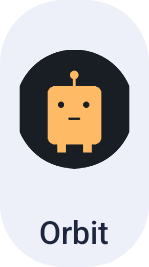
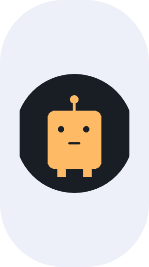
docs: record image-only focus widget delivery

diff --git a/docs/demo/home-widgets/index.html b/docs/demo/home-widgets/index.html
@@ -1,1 +1,1 @@
-<!doctype html><html lang="en"><meta charset="utf-8"><meta name="viewport" content="width=device-width, initial-scale=1"><title>Phone widgets — native Android</title><style>body{margin:0;font:14px/1.5 var(--font-sans,system-ui);color:var(--foreground,#c1cbe8)}p{margin:10px 0;color:var(--muted-foreground,#98a4c3)}.controls{display:flex;flex-wrap:wrap;gap:8px;margin:12px 0}label{display:flex;align-items:center;gap:8px}select{background:var(--secondary,#242840);color:inherit;border:1px solid var(--border,#626a85);border-radius:9px;padding:9px;font:inherit;min-height:44px}.stage{border-radius:var(--radius,16px);padding:24px;background:var(--secondary,#161d34);display:flex;justify-content:center;align-items:center;min-height:120px}.stage img{display:block;max-width:100%;height:auto;width:var(--width,300px)}small{display:block;margin-top:10px;color:var(--muted-foreground,#98a4c3)}strong{font-size:16px}button:focus-visible,select:focus-visible{outline:3px solid var(--ring,#61c7ff);outline-offset:2px}</style><strong>Phone shortcuts, rendered by Android</strong><p>Clear portraits. Names underneath. Tap a bot to open its Talk/Chat screen.</p><div class="controls"><label>Rows × columns<select id="layout"></select></label><label>Appearance<select id="theme"><option value="system">Follow system · OS dark</option><option value="light">Light</option><option value="dark">Dark</option><option value="moonlight" selected>Electronic Moonlight</option></select></label></div><div class="stage"><img id="image" alt=""></div><small>Actual native host exports with original public fixture robots. Each widget has separate bot choices and order. Five-column layouts require a suitable launcher grid.</small><small>Physical One UI placement and two-wallpaper color changes are still pending.</small><script>const layouts=[["focus", "1\u00d71", "Focus"], ["four", "2\u00d72", "Four bots"], ["eight", "2\u00d74", "Eight bots"], ["strip_four", "1\u00d74", "Four-bot strip"], ["sixteen", "4\u00d74", "Sixteen bots"], ["strip_five", "1\u00d75", "Five-bot strip"], ["ten", "2\u00d75", "Ten bots"]],images={"strip_five-light": "strip_five-light.png", "sixteen-system": "sixteen-system.png", "ten-system": "ten-system.png", "sixteen-light": "sixteen-light.png", "focus-moonlight": "focus-moonlight.png", "strip_four-light": "strip_four-light.png", "strip_five-moonlight": "strip_five-moonlight.png", "eight-light": "eight-light.png", "strip_four-dark": "strip_four-dark.png", "four-moonlight": "four-moonlight.png", "focus-system": "focus-system.png", "focus-light": "focus-light.png", "eight-dark": "eight-dark.png", "ten-dark": "ten-dark.png", "strip_five-system": "strip_five-system.png", "four-dark": "four-dark.png", "ten-moonlight": "ten-moonlight.png", "eight-moonlight": "eight-moonlight.png", "sixteen-moonlight": "sixteen-moonlight.png", "four-system": "four-system.png", "sixteen-dark": "sixteen-dark.png", "strip_four-system": "strip_four-system.png", "eight-system": "eight-system.png", "strip_five-dark": "strip_five-dark.png", "four-light": "four-light.png", "focus-dark": "focus-dark.png", "strip_four-moonlight": "strip_four-moonlight.png", "ten-light": "ten-light.png"};const select=document.querySelector('#layout');layouts.forEach(([key,size,name])=>{let o=new Option(size+' · '+name,key);select.add(o)});select.value='strip_four';const cols={focus:1,four:2,eight:4,strip_four:4,sixteen:4,strip_five:5,ten:5};function show(){const key=select.value;const image=document.querySelector('#image');image.src=images[key+'-'+document.querySelector('#theme').value];image.alt=layouts.find(x=>x[0]===key)[1]+' native phone widget';image.style.setProperty('--width',Math.min(430,cols[key]*78)+'px')};select.onchange=show;document.querySelector('#theme').onchange=show;show();console.log('native gallery ready',layouts.length,Object.keys(images).length);</script></html>
+<!doctype html><html lang="en"><meta charset="utf-8"><meta name="viewport" content="width=device-width, initial-scale=1"><title>Phone widgets — native Android</title><style>body{margin:0;font:14px/1.5 var(--font-sans,system-ui);color:var(--foreground,#c1cbe8)}p{margin:10px 0;color:var(--muted-foreground,#98a4c3)}.controls{display:flex;flex-wrap:wrap;gap:8px;margin:12px 0}label{display:flex;align-items:center;gap:8px}select{background:var(--secondary,#242840);color:inherit;border:1px solid var(--border,#626a85);border-radius:9px;padding:9px;font:inherit;min-height:44px}.stage{border-radius:var(--radius,16px);padding:24px;background:var(--secondary,#161d34);display:flex;justify-content:center;align-items:center;min-height:120px}.stage img{display:block;max-width:100%;height:auto;width:var(--width,300px)}small{display:block;margin-top:10px;color:var(--muted-foreground,#98a4c3)}strong{font-size:16px}button:focus-visible,select:focus-visible{outline:3px solid var(--ring,#61c7ff);outline-offset:2px}</style><strong>Phone shortcuts, rendered by Android</strong><p>The 1×1 shortcut shows just the portrait. Larger layouts keep names underneath. Tap a bot to open Talk/Chat.</p><div class="controls"><label>Rows × columns<select id="layout"></select></label><label>Appearance<select id="theme"><option value="system">Follow system · OS dark</option><option value="light">Light</option><option value="dark">Dark</option><option value="moonlight" selected>Electronic Moonlight</option></select></label></div><div class="stage"><img id="image" alt=""></div><small>Actual native host exports with original public fixture robots. Each widget has separate bot choices and order. Five-column layouts require a suitable launcher grid.</small><small>Physical One UI placement and two-wallpaper color changes are still pending.</small><script>const layouts=[["focus", "1\u00d71", "Focus"], ["four", "2\u00d72", "Four bots"], ["eight", "2\u00d74", "Eight bots"], ["strip_four", "1\u00d74", "Four-bot strip"], ["sixteen", "4\u00d74", "Sixteen bots"], ["strip_five", "1\u00d75", "Five-bot strip"], ["ten", "2\u00d75", "Ten bots"]],images={"strip_five-light": "strip_five-light.png", "sixteen-system": "sixteen-system.png", "ten-system": "ten-system.png", "sixteen-light": "sixteen-light.png", "focus-moonlight": "focus-moonlight.png", "strip_four-light": "strip_four-light.png", "strip_five-moonlight": "strip_five-moonlight.png", "eight-light": "eight-light.png", "strip_four-dark": "strip_four-dark.png", "four-moonlight": "four-moonlight.png", "focus-system": "focus-system.png", "focus-light": "focus-light.png", "eight-dark": "eight-dark.png", "ten-dark": "ten-dark.png", "strip_five-system": "strip_five-system.png", "four-dark": "four-dark.png", "ten-moonlight": "ten-moonlight.png", "eight-moonlight": "eight-moonlight.png", "sixteen-moonlight": "sixteen-moonlight.png", "four-system": "four-system.png", "sixteen-dark": "sixteen-dark.png", "strip_four-system": "strip_four-system.png", "eight-system": "eight-system.png", "strip_five-dark": "strip_five-dark.png", "four-light": "four-light.png", "focus-dark": "focus-dark.png", "strip_four-moonlight": "strip_four-moonlight.png", "ten-light": "ten-light.png"};const select=document.querySelector('#layout');layouts.forEach(([key,size,name])=>{let o=new Option(size+' · '+name,key);select.add(o)});select.value='strip_four';const cols={focus:1,four:2,eight:4,strip_four:4,sixteen:4,strip_five:5,ten:5};function show(){const key=select.value;const image=document.querySelector('#image');image.src=images[key+'-'+document.querySelector('#theme').value];image.alt=layouts.find(x=>x[0]===key)[1]+' native phone widget';image.style.setProperty('--width',Math.min(430,cols[key]*78)+'px')};select.onchange=show;document.querySelector('#theme').onchange=show;show();console.log('native gallery ready',layouts.length,Object.keys(images).length);</script></html>

diff --git a/SESSION_STATUS.md b/SESSION_STATUS.md
@@ -1,5 +1,15 @@
-<!-- Current continuation: Nova widget sizing fix b264796 is installed; the existing 1x1 portrait and Talk/Chat launch are verified. All 104 baseline files /18 identities /55 art files preserved. Watch f35bf59 unchanged. -->
+<!-- Current continuation: 1x1 portrait-only refinement acfe414 installed; 104 baseline files /18 identities /55 artwork files preserved. Native checks pass; phone was locked during final visual check. -->
 # Session status
+
+The owner requested an image-only 1×1 shortcut. Build `acfe414` hides the caption when the
+configured Focus portrait is available, giving that space to the image. The full name/source
+remain on the accessible cell; missing-art/recovery labels and larger-widget captions remain.
+Strict checks/all four APKs pass 133 JVM tests /38 reports and twelve affected native methods.
+Four synthetic Focus gallery exports are refreshed with individual source/APK provenance.
+The matching-signer preserving update is installed on the phone: all 104 baseline files,
+18 identities, 55 art files, timeout and seven providers are unchanged. Its configuration
+is retained. The phone was locked during the final visual check, so this image-only delivery's
+physical appearance is not claimed as observed. Private receipts: `.local/widget-image-only/`.
 
 The configured Nova 1×1 widget recovery bug is fixed and physically verified at `b264796`.
 The renderer supplies supported-minimum and tiny-recovery variants alongside advertised

diff --git a/docs/demo/home-widgets/README.md b/docs/demo/home-widgets/README.md
@@ -2,7 +2,7 @@
 
 [Interactive native gallery](index.html) — seven layouts × four appearances, using
 original public fixture robots. The dimensions are **rows × columns**; 1×4 and 1×5
-are horizontal. Captions and portraits are separate; every cell opens the exact bot.
+are horizontal. The configured 1×1 portrait has no caption, per the owner’s 2026-10-14 refinement; larger layouts retain separate captions. Every cell opens the exact bot.
 
 `HomeWidgetHostTest` binds real provider IDs, sends RemoteViews through AppWidgetManager,
 inflates them in AppWidgetHostView and measures 112 small/large, portrait/landscape,
@@ -31,3 +31,7 @@ To add: long-press the launcher → Widgets → Quantum Relay for Hermes → cho
 Choose slots, use Move earlier/later to order them, pick an appearance and Save widget.
 Reconfigure through the launcher or Settings → Home screen widgets. Widgets use the
 current effective portrait's static PNG fallback; animation remains in the apps.
+
+The four Focus PNGs were refreshed for the image-only refinement at their per-asset
+source/APK hashes in the manifest. Names/source remain accessible to screen readers;
+missing artwork and empty/unavailable slots retain their recovery labels.

diff --git a/docs/progress.md b/docs/progress.md
@@ -1,5 +1,18 @@
 # Progress
 
+## Image-only 1×1 shortcut — 2026-10-14
+
+At the owner's request, a configured Focus widget with available artwork shows only the
+image; the portrait fills the former caption space. Full name/source remain accessible.
+Missing-art/recovery labels and larger-widget captions are retained. Four native Focus
+exports are refreshed with per-asset provenance. The existing native mismatch check now
+requires the hidden caption and full accessible name. Twelve affected native methods and
+strict full checks/all four APKs pass (133 JVM tests /38 reports, no failures/errors/skips).
+Build `acfe414` is installed, preserving all 104 baseline files, 18 identities, 55 art files,
+timeout, widget configuration and seven providers. The phone was locked during the final
+visual check; native verification and preserving installation are proven, physical visual
+readback awaits unlock. Private records remain in `.local/widget-image-only/`.
+
 ## Nova widget sizing correction — 2026-10-14
 
 The owner's configured 1×1 Nova widget showed recovery because the launcher's advertised

diff --git a/docs/widget-host-sizing-fix.md b/docs/widget-host-sizing-fix.md
@@ -45,3 +45,13 @@ Phone captures and device-specific records remain private under `.local/widget-l
 No personal image is published. The newly booted test emulator is stopped after verification,
 with its prior data retained. The physical watch is unchanged. Other physical widget sizes,
 launchers, wallpaper changes and remaining release gates retain their earlier status.
+
+## Owner follow-up: image-only Focus
+
+Production `acfe414` removes the visible caption when Focus artwork is present and lets the
+portrait fill the space. Accessible name/source and missing-art recovery remain. Larger
+layouts keep their captions. All twelve affected native methods and strict checks/all four
+APKs pass. The preserving phone update retains all 104 baseline files, 18 identities, 55
+artwork files and configuration. The phone was locked at final visual inspection; the new
+image-only appearance is native-tested but not claimed as physically read back. Four public
+synthetic Focus exports have refreshed per-asset hashes. Private receipts stay ignored.

diff --git a/docs/superpowers/specs/2026-10-13-phone-home-widgets-design.md b/docs/superpowers/specs/2026-10-13-phone-home-widgets-design.md
@@ -62,6 +62,10 @@ actual wallpaper and night changes instead of relying on these mockup palettes.
 [Android dynamic widget colors](https://developer.android.com/develop/ui/views/appwidgets/enhance)
 supports system DayNight theming and API-specific fallbacks.
 
+Owner refinement, 2026-10-14: a configured 1×1 Focus widget with available artwork is image-only.
+Keep its full name/source in accessible semantics; missing-art/recovery labels remain. Larger
+layouts continue to use captions. This supersedes the original 1×1 caption treatment below.
+
 Use a quiet rounded tonal container, circular portraits and captions beneath each image.
 Keep microphones, menus, selection badges and status dots off the artwork. One entire cell
 is the profile target, at least 48 dp in either dimension at supported placement sizes.
